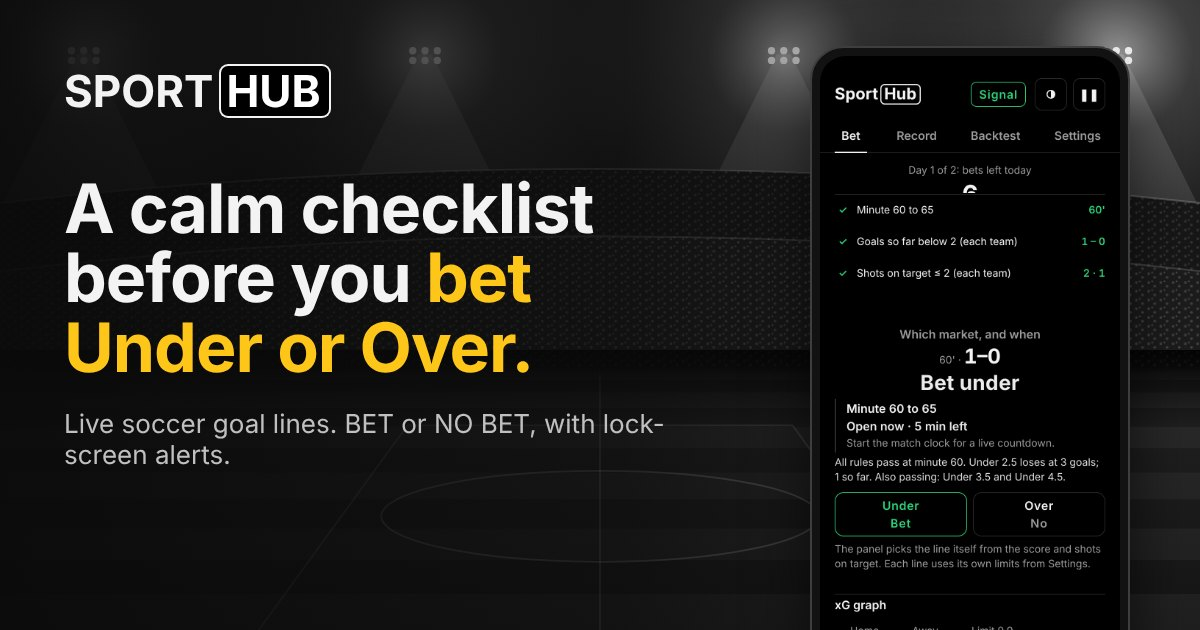
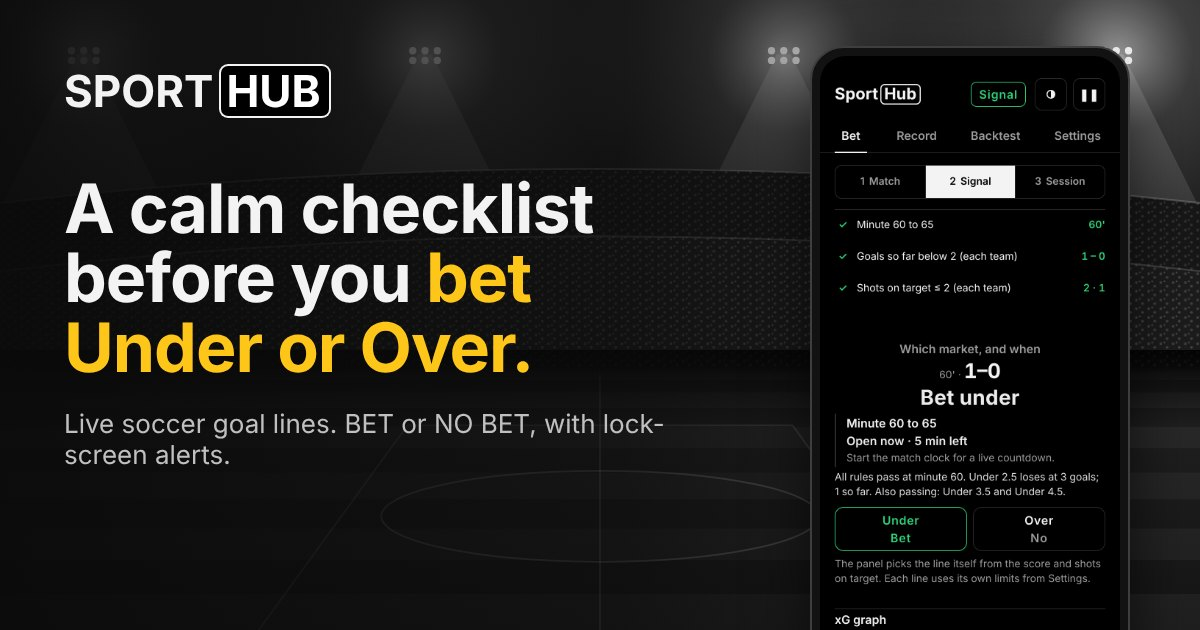
Build 62: on a phone, Bet and Settings come in three pages
Bet: Match, Signal, Session. Settings: Display, Rules, Data. A page strip sits under the tabs, Back / Next at the bottom, and swipe turns the page. Settings > Phone layout switches back to one long page. Wider screens are unchanged.

Claude-Session: https://claude.ai/code/session_01K42p2uwRXf4Wwj9iN5MFzn

Changed region(s): [[0.6783, 0.5127, 0.925, 1.0], [0.7092, 0.2413, 0.925, 0.4825]]

diff --git a/panel.html b/panel.html
@@ -823,6 +823,25 @@ body #pause,body #theme{border-radius:10px}
 #msig .msm{display:block;text-align:center}
 #banner{background:none!important;border:1px solid var(--line)!important;border-radius:10px;box-shadow:none}
 @media (min-width:900px){#fd-stats .grid>div{padding-top:8px;padding-bottom:8px}#msig,#msig.go,#msig.am,#msig.bad{padding-top:12px;padding-bottom:12px}}
+
+/* ===== Build 62: Bet and Settings in three pages on a phone ===== */
+#pgstrip,#pgnav{margin-left:20px;margin-right:20px}
+@media (max-width:420px){#pgstrip,#pgnav{margin-left:16px;margin-right:16px}}
+#pgstrip{display:grid;grid-template-columns:repeat(3,minmax(0,1fr));margin-top:16px;border:1px solid var(--line);border-radius:10px;overflow:hidden}
+#pgstrip[hidden],#pgnav[hidden]{display:none!important}
+#pgstrip button{display:flex;align-items:center;justify-content:center;gap:6px;min-height:44px;padding:0 6px;font:600 14px/20px var(--body);white-space:nowrap;background:none;color:var(--mut);border:0;border-left:1px solid var(--line);border-radius:0}
+#pgstrip button:first-child{border-left:0}
+#pgstrip button i{font-style:normal}
+#pgstrip button.on{background:var(--tx);color:var(--bg)}
+#pgnav{display:flex;gap:12px;margin-top:8px;margin-bottom:8px}
+#pgnav button{flex:1;min-height:48px;font:600 16px/22px var(--body);background:none;color:var(--tx);border:1px solid var(--line);border-radius:10px}
+#pgnav button[data-go="next"]:not(:disabled){background:var(--tx);color:var(--bg);border-color:var(--tx)}
+#pgnav button:disabled{visibility:hidden}
+.pgsr{position:absolute;width:1px;height:1px;margin:-1px;padding:0;border:0;overflow:hidden;clip:rect(0 0 0 0);clip-path:inset(50%);white-space:nowrap}
+body.pg3 .v2[data-cur="1"] [data-pg]:not([data-pg~="1"]),
+body.pg3 .v2[data-cur="2"] [data-pg]:not([data-pg~="2"]),
+body.pg3 .v2[data-cur="3"] [data-pg]:not([data-pg~="3"]){display:none!important}
+@media (min-width:600px){#form label.pgset{display:none}}
 </style>
 </head>
 <body>
@@ -834,6 +853,7 @@ body #pause,body #theme{border-radius:10px}
   <button id="pause" type="button" aria-label="Pause or resume betting">❚❚</button>
  </header>
  <nav class="tabs"><button type="button" class="on" data-t="bet">Bet</button><button type="button" data-t="rec">Record</button><button type="button" data-t="bt">Backtest</button><button type="button" data-t="set">Settings</button></nav>
+ <nav class="pgstrip" id="pgstrip" aria-label="Pages" hidden><button type="button" data-go="1"><i>1</i><span></span></button><button type="button" data-go="2"><i>2</i><span></span></button><button type="button" data-go="3"><i>3</i><span></span></button></nav>
  <p class="ckalert" id="ckalert" role="status" hidden></p>
 
  <section id="v-bet" class="v2">
@@ -1113,7 +1133,9 @@ body #pause,body #theme{border-radius:10px}
   </div>
   <button class="wide pri" type="button" data-a="apply">Apply and start new session</button>
  </section>
- <footer>Numbers come from a pasted stats line, or are pulled from your own API-Sports key if you add one. Not connected to a bookmaker. No bet is guaranteed.<span class="bld"><span id="buildno">Build 61 · 7 Nov 2026</span> <a id="aboutlk" class="abl" href="./?about">About SportHub</a> <button type="button" class="pu" id="reloadnew" data-a="reload">Reload latest</button></span></footer>
+ <div class="pgnav" id="pgnav" hidden><button type="button" data-go="back">Back</button><button type="button" data-go="next">Next</button></div>
+ <p class="pgsr" id="pgsr" role="status" aria-live="polite"></p>
+ <footer>Numbers come from a pasted stats line, or are pulled from your own API-Sports key if you add one. Not connected to a bookmaker. No bet is guaranteed.<span class="bld"><span id="buildno">Build 62 · 7 Nov 2026</span> <a id="aboutlk" class="abl" href="./?about">About SportHub</a> <button type="button" class="pu" id="reloadnew" data-a="reload">Reload latest</button></span></footer>
 </main>
 
 <script>
@@ -2142,7 +2164,7 @@ function avgMigrate(c){
 }
 function load(){try{const d=JSON.parse(localStorage.getItem(KEY)||'null');if(d&&d.v===2&&d.c&&d.s&&Array.isArray(d.s.open)&&!OLDDEF(d)){const old=d.c.avgDef!==2;c={...D,...d.c};GONE.forEach(k=>{delete c[k]});if(old)avgMigrate(c);s=d.s;if(!Array.isArray(s.sres))s.sres=[];hist=Array.isArray(d.h)?d.h:[];ses=d.n||1}}catch(e){}}
 const HOST_THEME=document.documentElement.getAttribute('data-theme');
-let theme='auto';
+let theme='auto';let pgMode='3';const pgCur={bet:1,set:1};
 function effTheme(){if(theme!=='auto')return theme;if(HOST_THEME==='light'||HOST_THEME==='dark')return HOST_THEME;try{return matchMedia('(prefers-color-scheme: light)').matches?'light':'dark'}catch(e){return'dark'}}
 function setTheme(v,keep){theme=v==='light'||v==='dark'?v:'auto';const r=document.documentElement;if(theme==='auto'){if(HOST_THEME)r.setAttribute('data-theme',HOST_THEME);else r.removeAttribute('data-theme')}else r.setAttribute('data-theme',theme);if(!keep){try{localStorage.setItem('u35_theme',theme)}catch(e){}}const b=document.getElementById('theme');if(b){b.title=effTheme()==='light'?'Switch to dark mode':'Switch to light mode'}const sl=document.getElementById('f_theme');if(sl)sl.value=theme}
 let mktOn=false;
@@ -3538,6 +3560,7 @@ function buildForm(){
   '<label>Theme<select id="f_theme"><option value="auto">Auto (follow device)</option><option value="light">Light</option><option value="dark">Dark</option></select></label>'+
   '<label>Panel size<select id="f_size"><option value="normal"'+(size==='normal'?' selected':'')+'>Normal</option><option value="compact"'+(size==='compact'?' selected':'')+'>Compact</option></select></label>'+
   '<label>Match name box<select id="f_mkt"><option value="hide"'+(mktOn?'':' selected')+'>Hidden</option><option value="show"'+(mktOn?' selected':'')+'>Shown: name each bet</option></select></label>'+
+  '<label class="pgset">Phone layout<select id="f_pages"><option value="3">Three pages</option><option value="off">One long page</option></select></label>'+
   '<label>Market<select id="f_pin"><option value=""'+(pinOf(c)?'':' selected')+'>Auto: the panel decides</option>'+MKT_ALL.map(a=>{const k=mkKey(a[0],a[1]);return '<option value="'+k+'"'+(c.pin===k?' selected':'')+'>'+mkName(a[0],a[1])+'</option>'}).join('')+'</select></label>'+
    '<label>Decide from<select id="f_basis"><option value="live"'+(c.basis==='live'?' selected':'')+'>Score and shots on target</option><option value="all"'+(c.basis==='live'?'':' selected')+'>Also xG and average goals</option></select></label>'+
    '<p class="pace">Auto picks the Under or Over line that fits the live numbers. Pick a line to hold it instead.</p>'+
@@ -3555,7 +3578,8 @@ function buildForm(){
   $('f_pin').onchange=e=>setPin(e.target.value);
   $('f_basis').onchange=e=>setBasis(e.target.value);
  $('f_theme').value=theme;$('f_theme').onchange=e=>setTheme(e.target.value);
- applyFold();
+ $('f_pages').value=pgMode;$('f_pages').onchange=e=>setPages(e.target.value);
+ applyFold();pgTag();
 }
 function read(){
  const o={...c},k=(v,a,b)=>Math.min(b,Math.max(a,v));
@@ -3656,6 +3680,66 @@ update();
 snapLoad();renderSnaps();clkLoad();clkArm();clockTick();covLoad();covRender();fwLoad();fwRender();
 setInterval(clockTick,1000);
 function reloadLatest(){try{const u=new URL(location.href);u.searchParams.set('v',String(Date.now()));location.replace(u.toString())}catch(e){try{location.reload()}catch(e2){}}}
+// ===== Build 62: on a phone, Bet and Settings come in three pages =====
+// Nothing is moved in the page. Each block is tagged with the page it belongs to (data-pg), and the page that is not open is hidden by CSS.
+const PG_MQ=window.matchMedia?matchMedia('(max-width:599px)'):null;
+const PG_NAMES={bet:['Match','Signal','Session'],set:['Display','Rules','Data']};
+function pgOn(){return pgMode!=='off'&&!!PG_MQ&&PG_MQ.matches}
+function pgView(){return !$('v-bet').hidden?'bet':!$('v-set').hidden?'set':''}
+function pgTag(){
+ const all=(sel,p)=>document.querySelectorAll(sel).forEach(e=>e.setAttribute('data-pg',p));
+ ['#v-bet .stk','#chips','#fd-clock','#fd-match'].forEach(x=>all(x,'1'));
+ ['#fd-rules','#msig','#snage','#fd-xg','#fd-mom'].forEach(x=>all(x,'2'));
+ ['#fd-stats','#banner','#acts','#chkmsg','#v-bet .cz'].forEach(x=>all(x,'3'));
+ [...$('form').children].forEach(e=>{const f=e.querySelector('[id^="f_"]');e.setAttribute('data-pg',f&&/^f_(theme|size|mkt|pages)$/.test(f.id)?'1':'2')});
+ ['#fd-sl','#fd-pn','#fd-bk'].forEach(x=>all(x,'3'));
+ all('#v-set > button.wide.pri','2');
+}
+function pgRender(top){
+ const on=pgOn(),v=pgView(),st=$('pgstrip'),nv=$('pgnav');
+ document.body.classList.toggle('pg3',on);
+ ['bet','set'].forEach(k=>{const e=$('v-'+k);if(on&&v===k)e.setAttribute('data-cur',pgCur[k]);else e.removeAttribute('data-cur')});
+ if(!on||!v){st.hidden=true;nv.hidden=true;return}
+ pgTag();
+ const n=pgCur[v],names=PG_NAMES[v];
+ st.hidden=false;nv.hidden=false;
+ st.setAttribute('aria-label',(v==='bet'?'Bet':'Settings')+' pages');
+ [...st.children].forEach((b,i)=>{b.lastChild.textContent=names[i];b.classList.toggle('on',i+1===n);if(i+1===n)b.setAttribute('aria-current','page');else b.removeAttribute('aria-current')});
+ nv.querySelector('[data-go="back"]').disabled=n<2;
+ nv.querySelector('[data-go="next"]').disabled=n>2;
+ $('pgsr').textContent=names[n-1]+', page '+n+' of 3';
+ if(top)window.scrollTo(0,0);
+}
+function pgGo(v,n){pgCur[v]=Math.max(1,Math.min(3,n));pgRender(true)}
+function setPages(v){pgMode=v==='off'?'off':'3';try{localStorage.setItem('u35_pages',pgMode)}catch(e){}pgRender()}
+try{pgMode=localStorage.getItem('u35_pages')==='off'?'off':'3'}catch(e){}
+document.addEventListener('click',e=>{
+ const g=e.target.closest('[data-go]');
+ if(g){const v=pgView();if(!v)return;const d=g.dataset.go;pgGo(v,d==='back'?pgCur[v]-1:d==='next'?pgCur[v]+1:+d);return}
+ if(e.target.closest('[data-t]')){pgRender();return}
+ const a=e.target.closest('[data-a]');
+ if(a&&(a.dataset.a==='apply'||a.dataset.a==='next')){pgCur.bet=1;pgRender(true)}
+});
+// swipe left for the next page, right for the one before
+let tsx=0,tsy=0,tst=0,tsok=false;
+document.addEventListener('touchstart',e=>{
+ tsok=false;
+ if(e.touches.length!==1||!pgOn()||!pgView())return;
+ const t=e.touches[0];
+ if(t.clientX<24||t.clientX>innerWidth-24)return;
+ if(e.target.closest&&e.target.closest('.xgbox,.tl,input,textarea,select,[data-noswipe]'))return;
+ tsx=t.clientX;tsy=t.clientY;tst=Date.now();tsok=true;
+},{passive:true});
+document.addEventListener('touchcancel',()=>{tsok=false},{passive:true});
+document.addEventListener('touchend',e=>{
+ if(!tsok)return;tsok=false;
+ const t=e.changedTouches[0],dx=t.clientX-tsx,dy=t.clientY-tsy,v=pgView();
+ if(!v||Date.now()-tst>700||Math.abs(dx)<70||Math.abs(dx)<Math.abs(dy)*2)return;
+ try{if(String(getSelection()).length)return}catch(err){}
+ pgGo(v,pgCur[v]+(dx<0?1:-1));
+},{passive:true});
+if(PG_MQ){const f=()=>pgRender();if(PG_MQ.addEventListener)PG_MQ.addEventListener('change',f);else if(PG_MQ.addListener)PG_MQ.addListener(f)}
+pgRender();
 document.body.classList.add('dockon');
 if(window.IntersectionObserver){new IntersectionObserver(es=>{const e=es[es.length-1];$('dock').hidden=!!(e&&e.isIntersecting)},{rootMargin:'0px 0px -96px 0px'}).observe($('acts'))}
 $('reloadnew').hidden=inFrame();$('aboutlk').hidden=inFrame();

diff --git a/index.html b/index.html
@@ -264,7 +264,7 @@ h1,h2,h3,.wm,.wm *{font-weight:700 !important}
    <div class="phone">
     <picture>
      <source srcset="img/phone-bet-light.webp" media="(prefers-color-scheme: light)">
-     <img src="img/phone-bet-dark.webp" width="816" height="1740" alt="The Bet tab at minute 60 with the score 1–0. Three rules pass, the verdict reads BET UNDER, the window is open with 5 minutes left, and a Log Under 2.5 button is ready." fetchpriority="high">
+     <img src="img/phone-bet-dark.webp" width="816" height="1740" alt="The Signal page of the Bet tab at minute 60 with the score 1–0. Three rules pass, the verdict reads Bet under, and the window is open with 5 minutes left. A page strip under the tabs shows Match, Signal and Session." fetchpriority="high">
     </picture>
    </div>
   </div>
